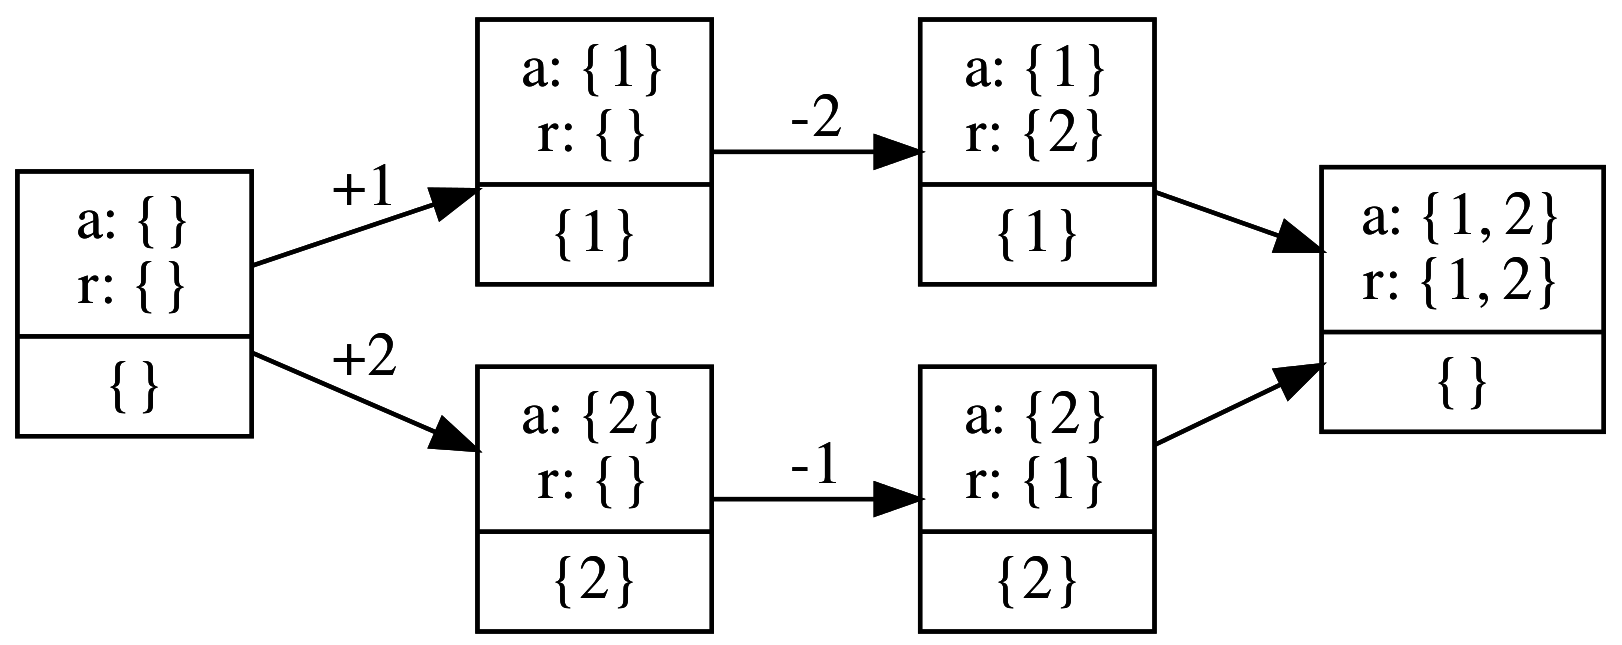
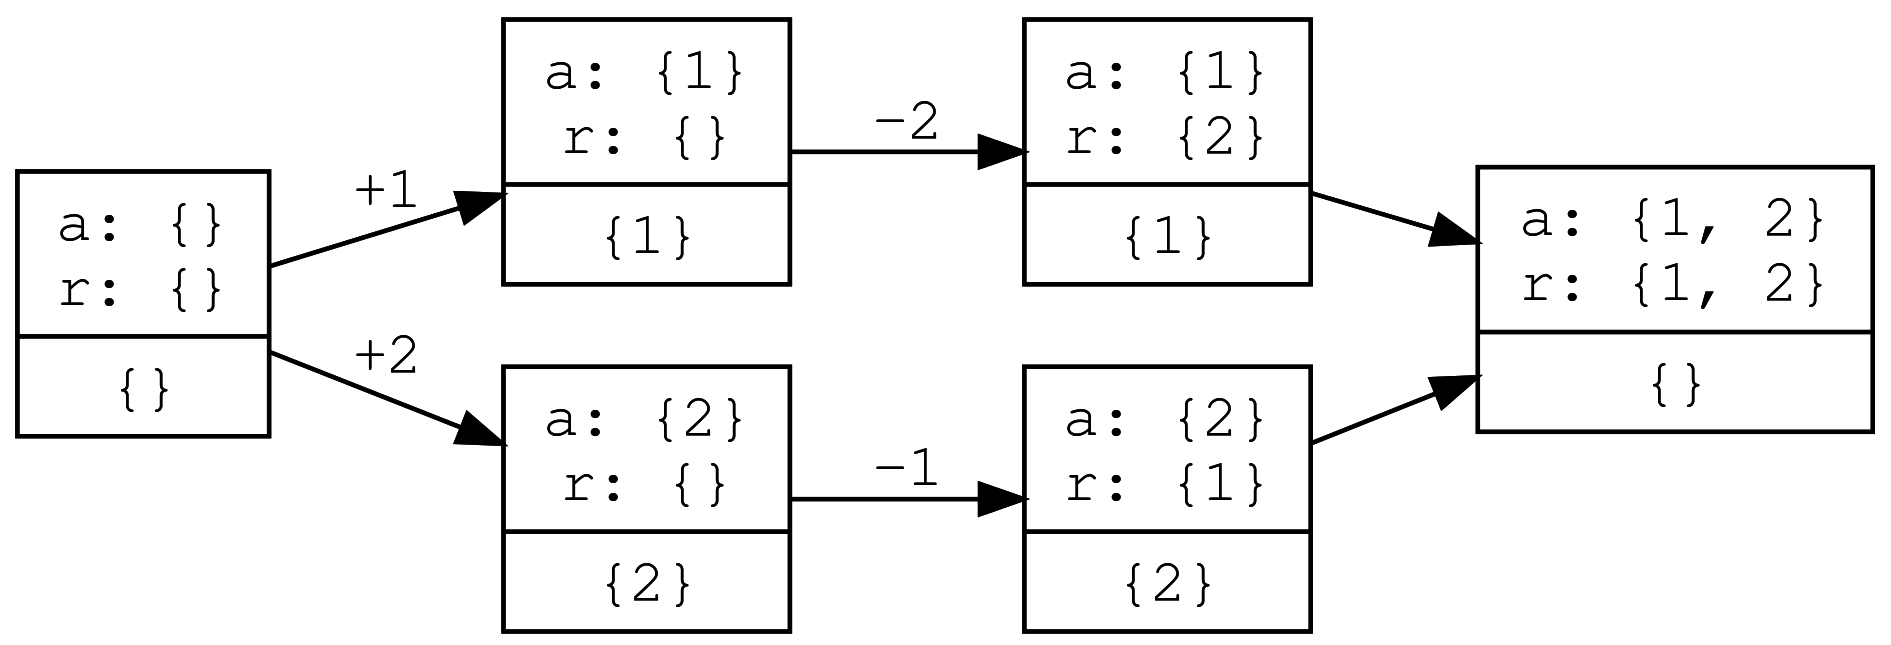
Added PN-Set and switched to Courier font.

diff --git a/README.md b/README.md
@@ -15,6 +15,7 @@ explaining CRDTs. This repository contains code to visualize them.
     - [State Based G-Set](#state-based-g-set)
     - [State Based 2P-Set](#state-based-2p-set)
     - [State Based LWW-Set](#state-based-lww-set)
+    - [State Based PN-Set](#state-based-pn-set)
 
 ## State Based G-Counter
 ![GCounter1](graphs/GCounter1.png)
@@ -39,6 +40,10 @@ explaining CRDTs. This repository contains code to visualize them.
 ![LwwSet3](graphs/LwwSet3.png)
 ![LwwSet4](graphs/LwwSet4.png)
 ![LwwSet5](graphs/LwwSet5.png)
+
+## State Based PN-Set
+![PnSet1](graphs/PnSet1.png)
+![PnSet2](graphs/PnSet2.png)
 
 ## Building and Running
 ```bash
